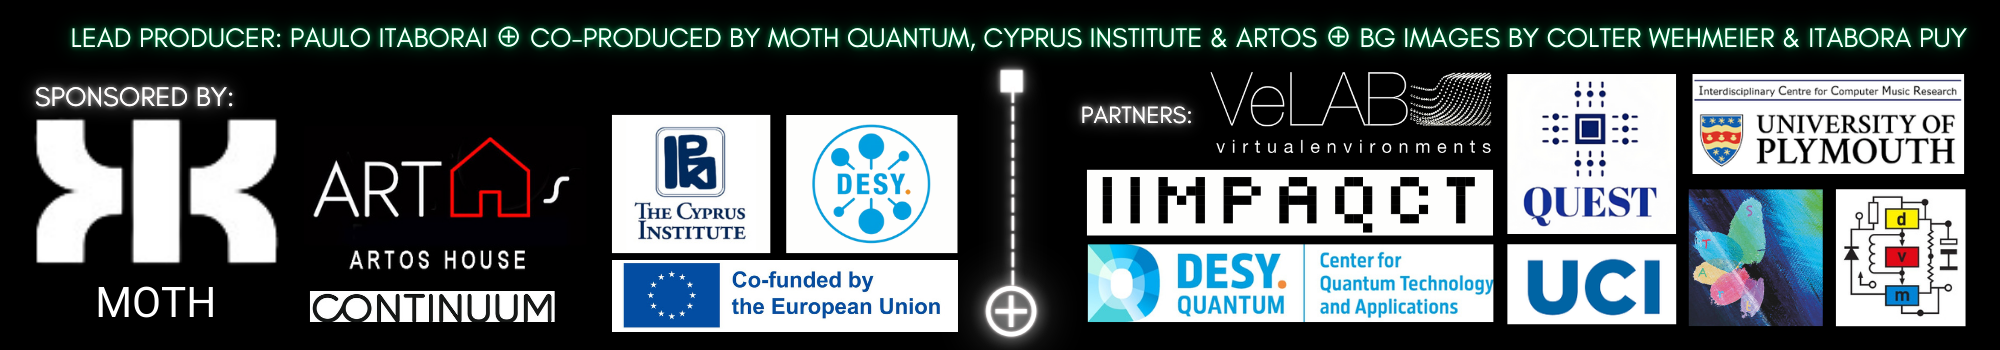
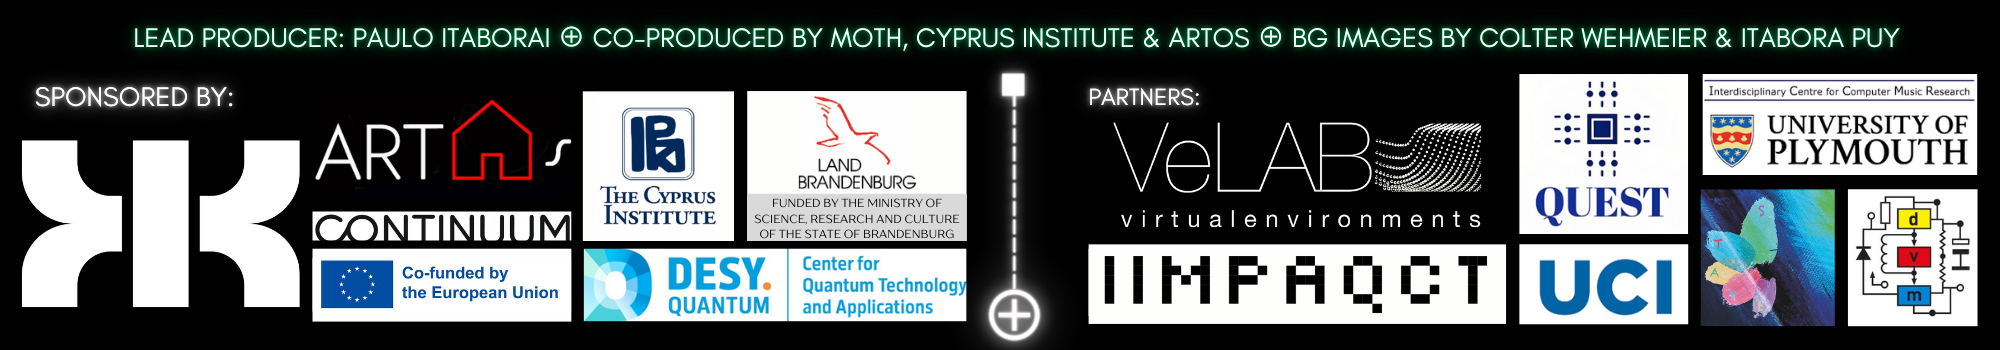
moth corrections

diff --git a/index.html b/index.html
@@ -49,8 +49,8 @@
     </ul>
             <section id="first-event">
         <h2>Audiovisual Alchemy</h2>
-        <p>Description: The page about this event will be available on the ARTos House webpage on Tuesday, Nov 12.</p>
-        <p><a href="https://artoshouse.org/" target="_blank">Link to the page here</a></p>
+        <p>Description: The page about this event is available on the ARTos House webpage.</p>
+        <p><a href="https://calendar.boomte.ch/single/hnA8L3wqR5yW2fzM6bW2xW2" target="_blank">Link to the page here</a></p>
     </section>
     <!-- Second Event Section -->
 <section id="second-event">
@@ -60,7 +60,7 @@
     algorithms, providing auditory insight on how quantum computers are being used for simulating
     physical systems, solving optimization problems, and more.</p>
 
-    <p>This concert - presented with the QUEST Open Day in partnership with Moth Quantum - features pieces created using the VQH as a music composition
+    <p>This concert - presented with the QUEST Open Day in partnership with Moth - features pieces created using the VQH as a music composition
     tool, in collaboration with composer-researchers involved in quantum computer music research.
     These works show the versatility of hybrid digital-quantum musical instruments to provide new
     ways of making music, while reflecting on both technical and aesthetic aspects of state-of-the-art quantum technologies.</p>
@@ -109,9 +109,9 @@
 <section id="moth-quantum-showcase">
     <h2>Moth Quantum Showcase</h2>
     <p>Presented by Astryd Park and María Aguado Yáñez</p>
-    <p>Moth Quantum is a pioneering company driving forward the applications of quantum technologies in the arts. Their research team and scientific collaborators have been researching, developing, and improving frameworks, tools, and musical interfaces in the field of Quantum Computer Music.</p>
+    <p>Moth is a pioneering company driving forward the applications of quantum technologies in the arts. Their research team and scientific collaborators have been researching, developing, and improving frameworks, tools, and musical interfaces in the field of Quantum Computer Music.</p>
 
-    <p>In this event, the Moth Quantum technical team will showcase the research and products that are being developed — most of which are also being employed in the Quantum Itineraries Week, enabling artists to use quantum computers in their creative processes.</p>
+    <p>In this event, the Moth technical team will showcase the research and products that are being developed — most of which are also being employed in the Quantum Itineraries Week, enabling artists to use quantum computers in their creative processes.</p>
 </section>
 
 
@@ -125,7 +125,7 @@
     quantum media. It presents talk-demonstrations and a concert featuring artists that explore
     different approaches to connecting quantum algorithms with live coding, audio sampling, telematics, video mapping, and multimedia performances.</p>
     
-    <p>Moth Quantum will demonstrate how they develop tools to encode and decode audio
+    <p>Moth will demonstrate how they develop tools to encode and decode audio
     files in a quantum circuit, as well as how to use quantum computing to generate new music.
     Additional frameworks and methodologies — developed by researchers at Moth, Cyprus Institute, DESY, University of Plymouth, and CEIS20 — will enable the use of quantum algorithms in the
     live musical concert.</p>
@@ -178,8 +178,8 @@
 
         <section id="sponsors">
             <h2>Our Sponsors and Partners</h2>
-            <p>Thank you to our supporters: Moth Quantum, ARTos Foundation, Cyprus Institute, DESY and CONTINUUM</p>
-            <p>We also thank our collaborating partners: VELab, QUEST, IIMPAQCT, CQTA DESY, ICCMR, UCI, STArt, DVM Studio</p>
+            <p>Thank you to our supporters: Moth, ARTos Foundation, Cyprus Institute, CQTA DESY and CONTINUUM</p>
+            <p>We also thank our collaborating partners: VELab, QUEST, IIMPAQCT, ICCMR, UCI, STArt, DVM Studio</p>
         </section>
     </main>
     <img src="people.png" alt="People" class="between-main-footer">
